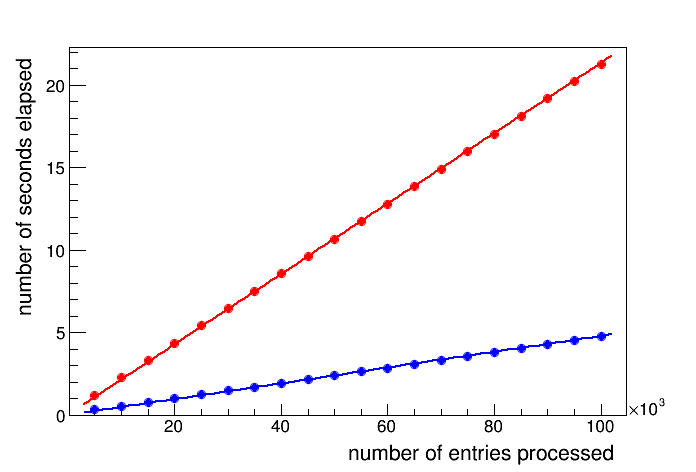
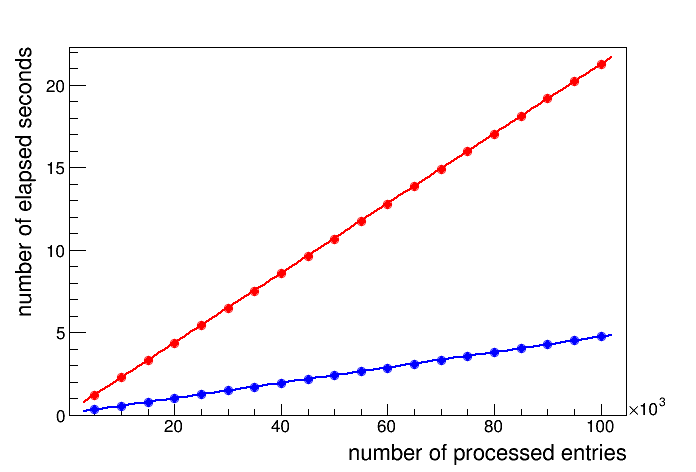
Revise the wording 'the number of entries processed' and 'the number of seconds elapsed' to 'the number of processed entries' and 'the number of elapsed seconds'

diff --git a/examples/in_the_paper/draw_and_fit_nEtr_nSec/draw_and_fit_nEtr_nSec.C b/examples/in_the_paper/draw_and_fit_nEtr_nSec/draw_and_fit_nEtr_nSec.C
@@ -54,10 +54,10 @@ void draw_and_fit_nEtr_nSec()
   multigraph->Add(graph1);
   multigraph->Add(graph2);
   multigraph->Draw("AP");
-  multigraph->GetXaxis()->SetTitle("number of entries processed");
+  multigraph->GetXaxis()->SetTitle("number of processed entries");
   multigraph->GetXaxis()->SetTitleSize(0.05);
   multigraph->GetXaxis()->SetLabelSize(0.04);
-  multigraph->GetYaxis()->SetTitle("number of seconds elapsed");
+  multigraph->GetYaxis()->SetTitle("number of elapsed seconds");
   multigraph->GetYaxis()->SetTitleSize(0.05);
   multigraph->GetYaxis()->SetLabelSize(0.04);
   multigraph->GetYaxis()->SetTitleOffset(0.8);

diff --git a/examples/in_the_user_guide/draw_and_fit_nEtr_nSec/draw_and_fit_nEtr_nSec.C b/examples/in_the_user_guide/draw_and_fit_nEtr_nSec/draw_and_fit_nEtr_nSec.C
@@ -54,10 +54,10 @@ void draw_and_fit_nEtr_nSec()
   multigraph->Add(graph1);
   multigraph->Add(graph2);
   multigraph->Draw("AP");
-  multigraph->GetXaxis()->SetTitle("number of entries processed");
+  multigraph->GetXaxis()->SetTitle("number of processed entries");
   multigraph->GetXaxis()->SetTitleSize(0.05);
   multigraph->GetXaxis()->SetLabelSize(0.04);
-  multigraph->GetYaxis()->SetTitle("number of seconds elapsed");
+  multigraph->GetYaxis()->SetTitle("number of elapsed seconds");
   multigraph->GetYaxis()->SetTitleSize(0.05);
   multigraph->GetYaxis()->SetLabelSize(0.04);
   multigraph->GetYaxis()->SetTitleOffset(0.8);
